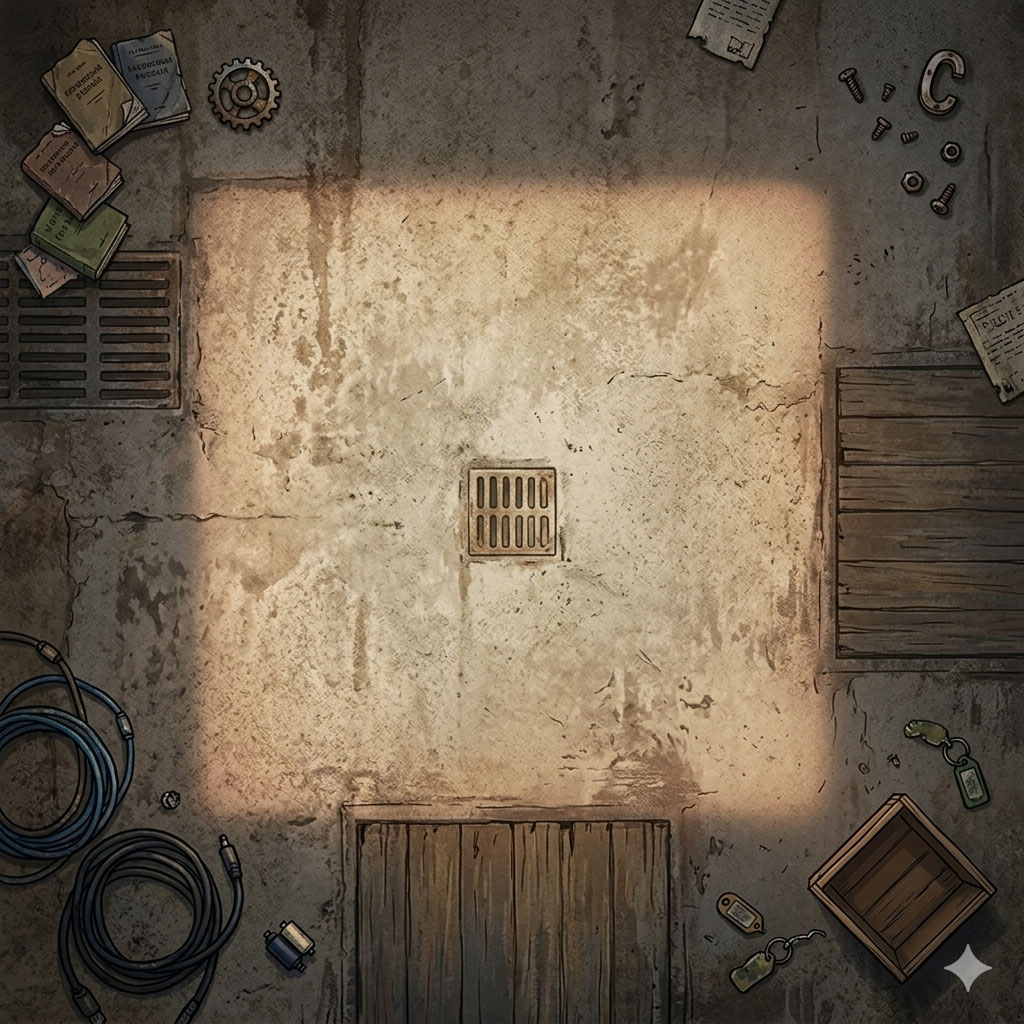
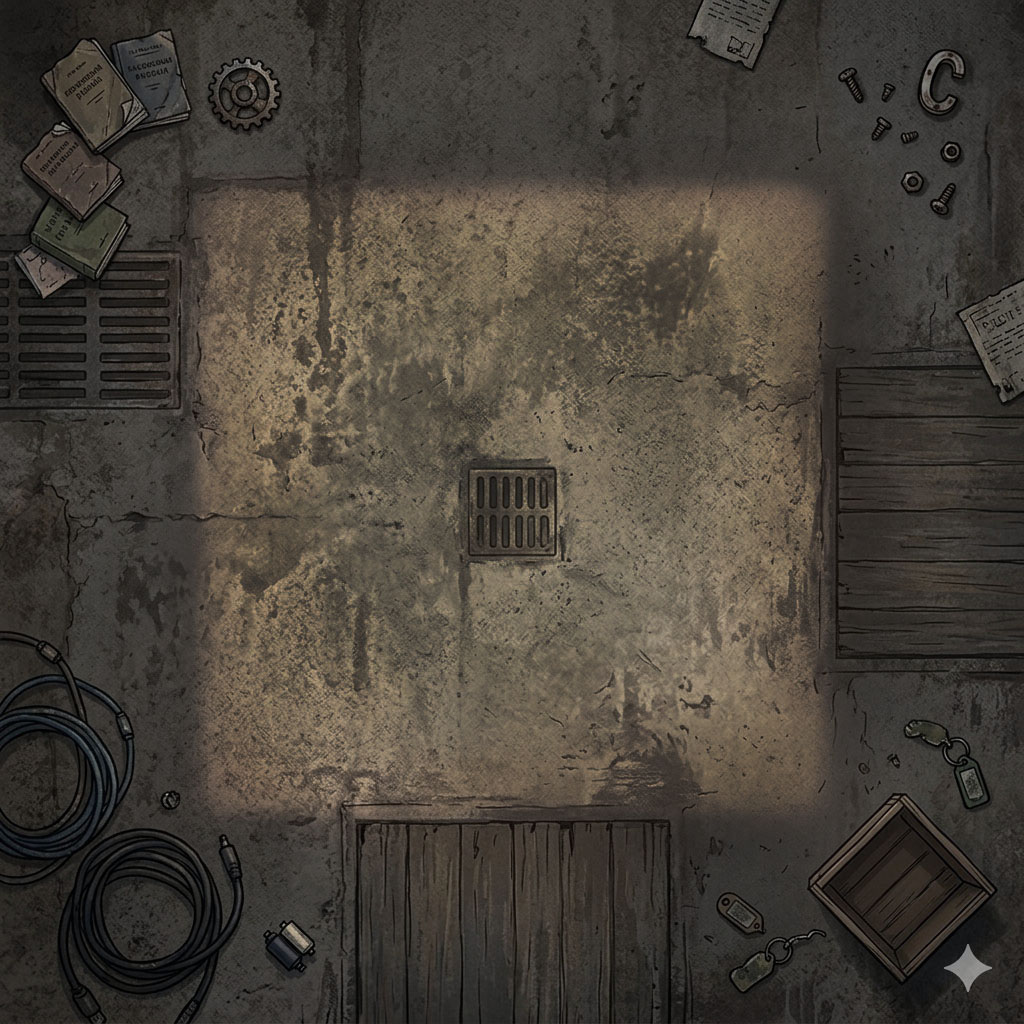
доработки визуала розыгрыша

diff --git a/src/core/DiceCore.ts b/src/core/DiceCore.ts
@@ -1,12 +1,12 @@
 import * as PIXI from 'pixi.js';
 import gsap from 'gsap';
 import { toRaw } from 'vue';
-
-// Ассеты
+import type { StatKey } from '@/types.ts'
 import imgHeart from '@/assets/dice/dice_heart.png';
 import imgFist from '@/assets/dice/dice_fist.png';
 import imgCrit from '@/assets/dice/dice_crit.png';
-import type { StatKey } from '@/types.ts'
+import imgBackground from '@/assets/dice/dice_bg.jpg'
+
 
 interface DiceSprite extends PIXI.Sprite {
     diceType: string;
@@ -17,6 +17,7 @@ export class DiceCore {
     private pixiApp: PIXI.Application;
     private diceSprites: DiceSprite[] = [];
     private textures: Record<string, PIXI.Texture> = {};
+    private backgroundSprite: PIXI.Sprite | null = null;
 
     constructor(app: PIXI.Application) {
         this.pixiApp = app;
@@ -30,7 +31,8 @@ export class DiceCore {
         this.textures = await PIXI.Assets.load([
             { alias: 'heart', src: imgHeart },
             { alias: 'fist', src: imgFist },
-            { alias: 'crit', src: imgCrit }
+            { alias: 'crit', src: imgCrit },
+            { alias: 'floorBg', src: imgBackground }
         ]);
     }
 
@@ -39,6 +41,28 @@ export class DiceCore {
      * @param values - массив строк (типов кубиков), приходящий из пропсов компонента
      */
     spawnDiceGrid(values: string[]) {
+        if (this.textures['floorBg']) {
+            const bg = new PIXI.Sprite(this.textures['floorBg']);
+            bg.anchor.set(0.5);
+
+            // Получаем «чистый» объект без Vue-обертки
+            const rawBg = toRaw(bg);
+
+            rawBg.x = this.pixiApp.screen.width / 2;
+            rawBg.y = this.pixiApp.screen.height / 2;
+
+            const scale = Math.max(
+                this.pixiApp.screen.width / rawBg.width,
+                this.pixiApp.screen.height / rawBg.height
+            );
+
+            rawBg.scale.set(scale);
+
+            rawBg.zIndex = 0;
+            this.pixiApp.stage.addChild(rawBg);
+            this.backgroundSprite = bg; // Сохраняем ссылку для очистки
+        }
+
         const columns = 3;
         const total = values.length; // Теперь total берется из переданного аргумента
 
@@ -212,6 +236,10 @@ export class DiceCore {
     }
 
     destroy() {
+        if (this.backgroundSprite) {
+            this.backgroundSprite.destroy();
+        }
+
         this.diceSprites.forEach(s => {
             gsap.killTweensOf(s);
             if (s.shadow) {

diff --git a/src/components/dices/DicePreparation.vue b/src/components/dices/DicePreparation.vue
@@ -149,7 +149,7 @@ export default defineComponent({
                     ]! + increment,
                 duration: 1.2,
                 ease: 'power2.out',
-                //onComplete: () => this.handleGroupComplete(),
+                onComplete: () => this.handleGroupComplete(),
             });
 
             // Обновляем стор для живой анимации полосок в FighterCard
